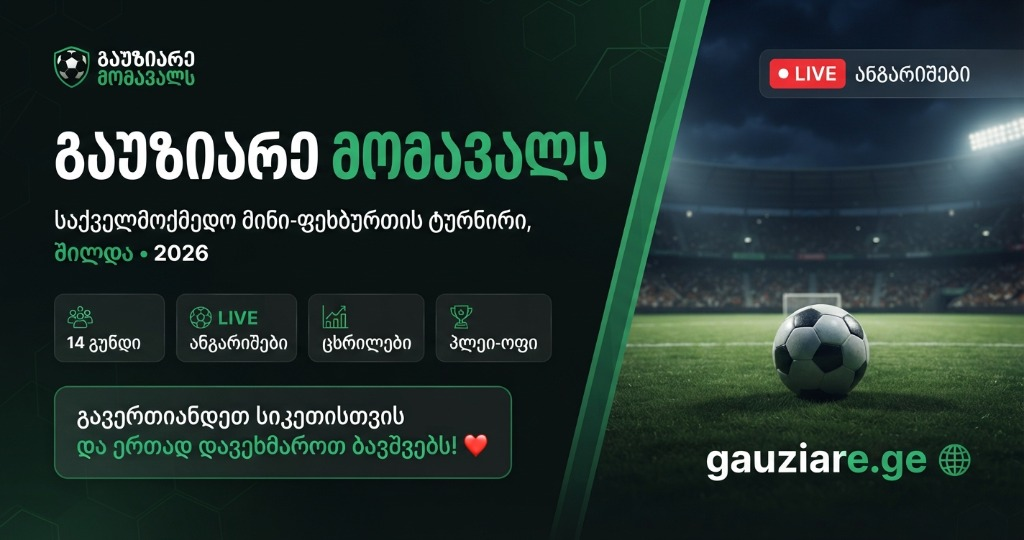
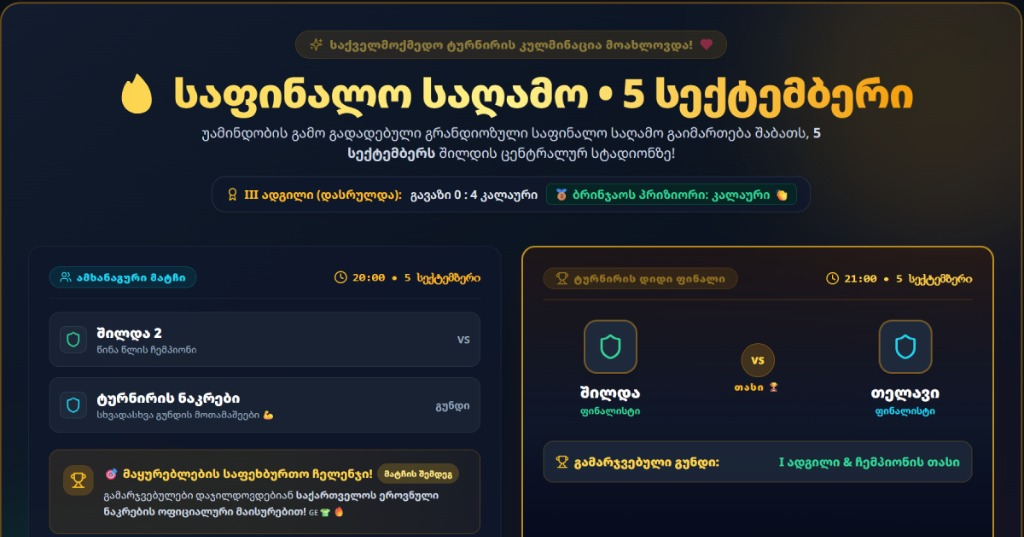
Update Facebook OG image and sharing metadata for Final Night

diff --git a/src/app/layout.tsx b/src/app/layout.tsx
@@ -15,9 +15,9 @@ const notoSansGeorgian = Noto_Sans_Georgian({
 
 export const metadata: Metadata = {
   metadataBase: new URL('https://gauziare.ge'),
-  title: 'გაუზიარე მომავალს — მინი ფეხბურთის საქველმოქმედო ტურნირი',
+  title: 'გაუზიარე მომავალს — საფინალო საღამო (5 სექტემბერი)',
   description:
-    'შილდაში გამართული ყოველწლიური საქველმოქმედო მინი-ფეხბურთის ტურნირი — LIVE ანგარიშები, მატჩები, ცხრილები, პლეი-ოფი და საქველმოქმედო ინიციატივა ბავშვებისა და მრავალშვილიანი ოჯახების დასახმარებლად.',
+    'საქველმოქმედო ტურნირის კულმინაცია! 5 სექტემბერს შილდის სტადიონზე: 20:00 ამხანაგური მატჩი & მაყურებელთა ჩელენჯი, 21:00 დიდი ფინალი: შილდა 🆚 თელავი. LIVE ანგარიშები და განრიგი ❤⚽',
   keywords: [
     'გაუზიარე მომავალს',
     'შილდა',
@@ -26,20 +26,22 @@ export const metadata: Metadata = {
     'შილდის სტადიონი',
     'ფეხბურთის ჩემპიონატი',
     'live ანგარიშები',
+    'საფინალო საღამო',
+    'შილდა თელავი ფინალი',
   ],
   authors: [{ name: 'საინიციატივო ჯგუფი გაუზიარე მომავალს' }],
   openGraph: {
-    title: 'გაუზიარე მომავალს — საქველმოქმედო მინი ფეხბურთის ჩემპიონატი (შილდა)',
+    title: '🔥 საფინალო საღამო • 5 სექტემბერი | გაუზიარე მომავალს',
     description:
-      'გავერთიანდეთ სიკეთისთვის და ერთად დავეხმაროთ ბავშვებს! ❤ LIVE ანგარიშები და ცხრილები.',
+      'საქველმოქმედო ტურნირის კულმინაცია! 5 სექტემბერს შილდის სტადიონზე: 20:00 ამხანაგური მატჩი & მაყურებელთა ჩელენჯი, 21:00 დიდი ფინალი: შილდა 🆚 თელავი. LIVE ანგარიშები და განრიგი ❤⚽',
     url: 'https://gauziare.ge',
     siteName: 'გაუზიარე მომავალს',
     images: [
       {
-        url: 'https://gauziare.ge/og-image.jpg',
-        width: 1200,
-        height: 630,
-        alt: 'გაუზიარე მომავალს — LIVE ანგარიშები',
+        url: 'https://gauziare.ge/og-final-night.jpg',
+        width: 1024,
+        height: 537,
+        alt: 'საფინალო საღამო • 5 სექტემბერი — გაუზიარე მომავალს',
       },
     ],
     locale: 'ka_GE',
@@ -47,10 +49,10 @@ export const metadata: Metadata = {
   },
   twitter: {
     card: 'summary_large_image',
-    title: 'გაუზიარე მომავალს — საქველმოქმედო მინი ფეხბურთის ჩემპიონატი (შილდა)',
+    title: '🔥 საფინალო საღამო • 5 სექტემბერი | გაუზიარე მომავალს',
     description:
-      'გავერთიანდეთ სიკეთისთვის და ერთად დავეხმაროთ ბავშვებს! ❤ LIVE ანგარიშები და ცხრილები.',
-    images: ['https://gauziare.ge/og-image.jpg'],
+      'საქველმოქმედო ტურნირის კულმინაცია! 5 სექტემბერს შილდის სტადიონზე: 20:00 ამხანაგური მატჩი & მაყურებელთა ჩელენჯი, 21:00 დიდი ფინალი: შილდა 🆚 თელავი. LIVE ანგარიშები და განრიგი ❤⚽',
+    images: ['https://gauziare.ge/og-final-night.jpg'],
   },
 };
 
@@ -69,11 +71,14 @@ export default function RootLayout({
   return (
     <html lang="ka" className={`dark scroll-smooth ${notoSansGeorgian.variable}`}>
       <head>
-        <meta property="og:image" content="https://gauziare.ge/og-image.jpg" />
-        <meta property="og:image:width" content="1200" />
-        <meta property="og:image:height" content="630" />
+        <meta property="og:title" content="🔥 საფინალო საღამო • 5 სექტემბერი | გაუზიარე მომავალს" />
+        <meta property="og:description" content="საქველმოქმედო ტურნირის კულმინაცია! 5 სექტემბერს შილდის სტადიონზე: 20:00 ამხანაგური მატჩი & მაყურებელთა ჩელენჯი, 21:00 დიდი ფინალი: შილდა 🆚 თელავი. LIVE ანგარიშები და განრიგი ❤⚽" />
+        <meta property="og:image" content="https://gauziare.ge/og-final-night.jpg" />
+        <meta property="og:image:secure_url" content="https://gauziare.ge/og-final-night.jpg" />
+        <meta property="og:image:width" content="1024" />
+        <meta property="og:image:height" content="537" />
         <meta property="og:image:type" content="image/jpeg" />
-        <meta name="twitter:image" content="https://gauziare.ge/og-image.jpg" />
+        <meta name="twitter:image" content="https://gauziare.ge/og-final-night.jpg" />
         {/* HTTP → HTTPS redirect */}
         <script
           dangerouslySetInnerHTML={{

diff --git a/deploy-ftp.js b/deploy-ftp.js
@@ -3,7 +3,7 @@ const path = require('path');
 const fs = require('fs');
 
 async function deploy() {
-  const client = new ftp.Client(30000);
+  const client = new ftp.Client(60000);
   client.ftp.verbose = true;
   try {
     console.log('Connecting to FTP server at 136.243.25.149 ...');
@@ -14,25 +14,75 @@ async function deploy() {
       port: 21,
       secure: false,
     });
-    console.log('Connected! Uploading out/ directory to remote root...');
+    console.log('Connected! Uploading updated files & assets...');
 
-    // Upload local 'out' directory to remote root '/'
-    const localDir = path.join(__dirname, 'out');
-    await client.uploadFromDir(localDir, '/');
+    // 1. Root index.html & .htaccess
+    console.log('Uploading homepage index.html...');
+    await client.uploadFrom(path.join(__dirname, 'out/index.html'), '/index.html');
 
-    // Also overwrite api/data_matches.json on the server with the new seeds!
+    const htaccessPath = path.join(__dirname, 'public/.htaccess');
+    if (fs.existsSync(htaccessPath)) {
+      await client.uploadFrom(htaccessPath, '/.htaccess');
+      console.log('✓ .htaccess uploaded');
+    }
+
+    // 2. OpenGraph images
+    for (const og of ['og-image.jpg', 'og-image.png', 'og-final-night.jpg']) {
+      const p = path.join(__dirname, 'public', og);
+      if (fs.existsSync(p)) {
+        await client.uploadFrom(p, `/${og}`);
+        console.log(`✓ ${og} uploaded`);
+      }
+    }
+
+    // 3. API Seed & Data matches
+    try { await client.ensureDir('/api'); } catch (e) {}
     const seedPath = path.join(__dirname, 'public/api/seed_matches.json');
     if (fs.existsSync(seedPath)) {
-      await client.uploadFrom(seedPath, 'api/data_matches.json');
-      await client.uploadFrom(seedPath, 'api/seed_matches.json');
-      console.log('Updated api/data_matches.json and api/seed_matches.json on server!');
+      await client.uploadFrom(seedPath, '/api/data_matches.json');
+      await client.uploadFrom(seedPath, '/api/seed_matches.json');
+      console.log('✓ Updated /api/data_matches.json and /api/seed_matches.json');
+    }
+
+    // 4. _next static assets (CSS, JS Chunks)
+    console.log('Uploading _next static assets directory...');
+    const nextLocalDir = path.join(__dirname, 'out/_next');
+    if (fs.existsSync(nextLocalDir)) {
+      try { await client.ensureDir('/_next'); } catch (e) {}
+      await client.uploadFromDir(nextLocalDir, '/_next');
+      console.log('✓ _next assets uploaded');
+    }
+
+    // 5. Match pages for finals & special matches
+    const keyMatches = ['m-final', 'm-friendly', 'm-third', 'm-sf-1', 'm-sf-2'];
+    for (const mId of keyMatches) {
+      const matchDir = path.join(__dirname, `out/match/${mId}`);
+      if (fs.existsSync(matchDir)) {
+        try { await client.ensureDir(`/match/${mId}`); } catch (e) {}
+        await client.uploadFrom(path.join(matchDir, 'index.html'), `/match/${mId}/index.html`);
+        console.log(`✓ Match page uploaded: /match/${mId}/index.html`);
+      }
+    }
+
+    // 6. Admin and other top routes
+    for (const route of ['about', 'admin', 'charity']) {
+      const routeDir = path.join(__dirname, `out/${route}`);
+      if (fs.existsSync(routeDir)) {
+        try { await client.ensureDir(`/${route}`); } catch (e) {}
+        const idx = path.join(routeDir, 'index.html');
+        if (fs.existsSync(idx)) {
+          await client.uploadFrom(idx, `/${route}/index.html`);
+          console.log(`✓ Route page uploaded: /${route}/index.html`);
+        }
+      }
     }
 
     console.log('==========================================');
-    console.log('ALL FILES & SCORES UPLOADED SUCCESSFULLY!');
+    console.log('ALL ESSENTIAL FILES & SCORES DEPLOYED SUCCESSFULLY!');
     console.log('==========================================');
   } catch (err) {
     console.error('FTP Upload error:', err);
+    throw err;
   } finally {
     client.close();
   }
